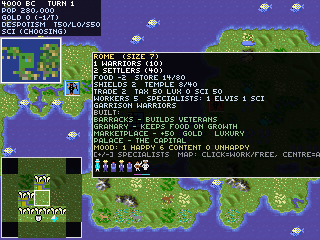
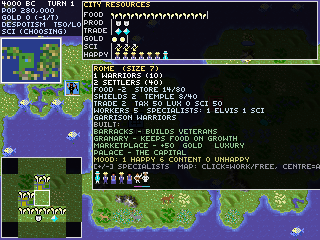
Add a graphical City Resources pane to the city screen
A pane across the top shows one icon row per resource -- food (wheat),
production (shields), trade, gold, science and happiness (citizen faces)
-- each divided by a small separator into what the city consumes (food
eaten, gold upkeep, unhappy citizens) and its surplus (growth, net profit,
happy citizens).  The build menu is shifted down to make room.

Changed region(s): [[0.25, 0.0, 1.0, 0.8167], [0.7812, 0.3792, 0.8125, 0.4667]]

diff --git a/README.md b/README.md
@@ -113,6 +113,12 @@ range to put a citizen to work it, and click the centre to hand the arrangement
 back to the governor's auto-optimiser. This lets you force a city to work its
 high-food tiles to grow, or its high-shield tiles to rush a wonder.
 
+Across the top runs a **City Resources** pane: one row of icons per resource —
+food (wheat), production (shields), trade (arrows), gold, science and happiness
+(citizen faces) — each split by a small separator into what the city **consumes**
+(food eaten, gold upkeep, unhappy citizens) on the left and its **surplus** (food
+toward growth, net profit, happy citizens) on the right.
+
 Along the bottom of the panel runs a **population bar**, one little citizen
 sprite per inhabitant (the original SP257 figures): happy, content and unhappy
 faces for the tile-workers, then the **specialists**. Citizens who aren't working
